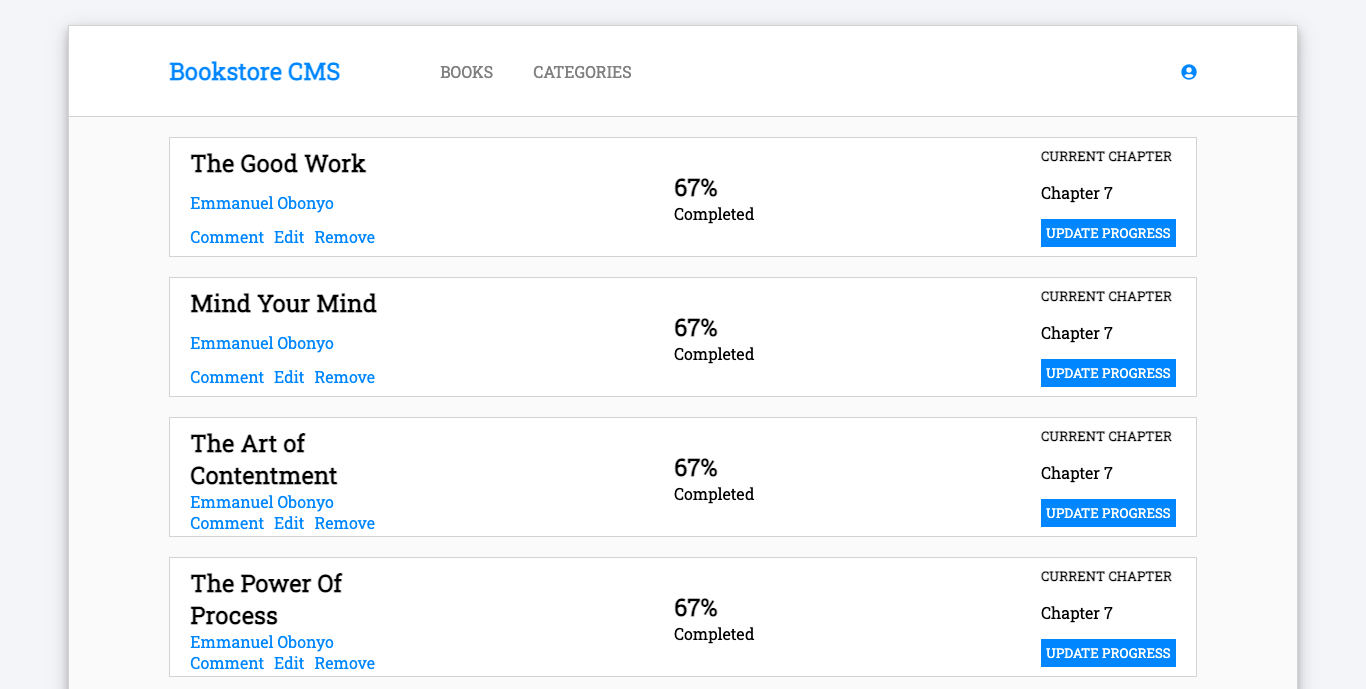
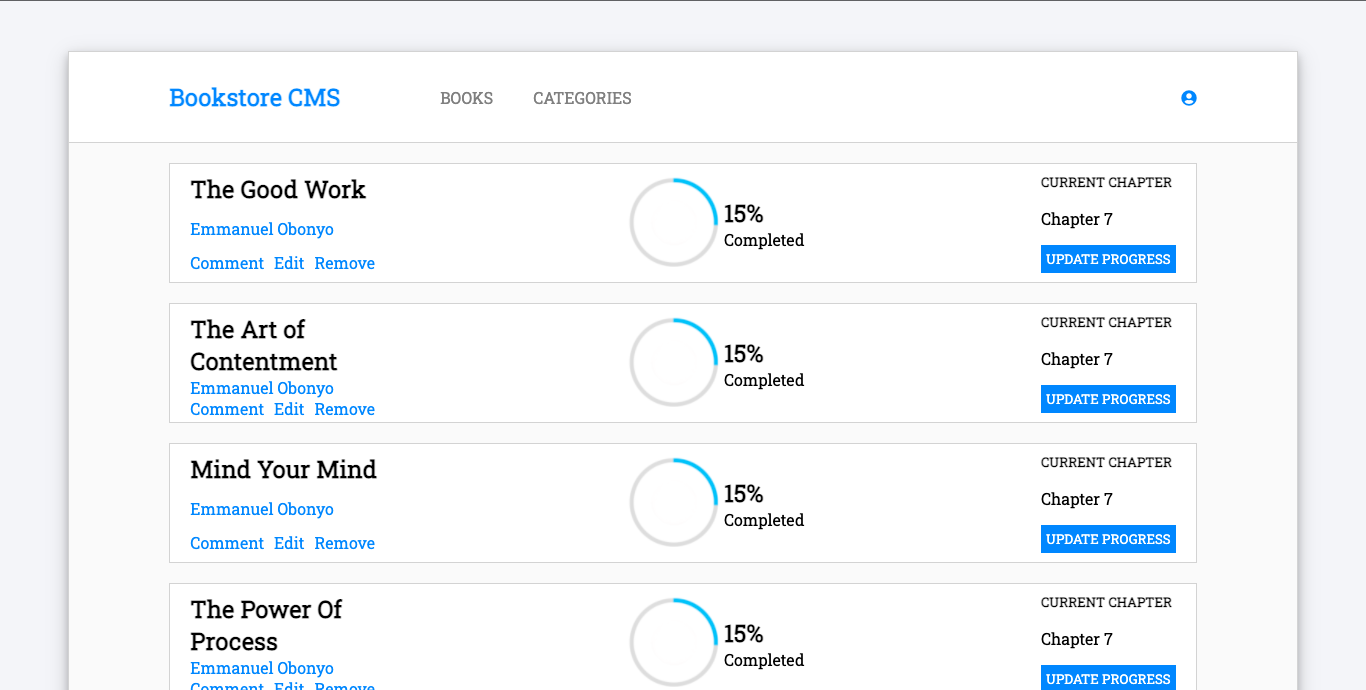
Add Circular progress bar

diff --git a/src/redux/books/getBooksSlice.js b/src/redux/books/getBooksSlice.js
@@ -23,9 +23,14 @@ export const getBooks = createAsyncThunk(
       const category = document.createElement('p');
       category.innerHTML = data[book][0].category;
       category.className = 'category';
+      const imageDiv = document.createElement('div');
+      imageDiv.className = 'image-div';
+      const image = document.createElement('img');
+      image.src = 'https://i.stack.imgur.com/2UAyy.png';
+      image.className = 'image-src';
       const div2 = document.createElement('div');
       const percentage = document.createElement('h2');
-      percentage.innerText = '67%';
+      percentage.innerText = '15%';
       const completed = document.createElement('p');
       completed.innerText = 'Completed';
       const div3 = document.createElement('div');
@@ -63,7 +68,7 @@ export const getBooks = createAsyncThunk(
       };
       bookList.appendChild(div);
       div.appendChild(div1);
-      div.appendChild(div2);
+      div.appendChild(imageDiv);
       div.appendChild(div3);
       div1.appendChild(title);
       div1.appendChild(category);
@@ -71,6 +76,8 @@ export const getBooks = createAsyncThunk(
       div4.appendChild(commentButton);
       div4.appendChild(editButton);
       div4.appendChild(button);
+      imageDiv.appendChild(image);
+      imageDiv.appendChild(div2);
       div2.appendChild(percentage);
       div2.appendChild(completed);
       div3.appendChild(chapter);

diff --git a/src/components/addNewBook/AddNewBook.js b/src/components/addNewBook/AddNewBook.js
@@ -33,9 +33,14 @@ function AddNewBook() {
     const newCategory = document.createElement('p');
     newCategory.innerHTML = document.getElementById('category').value;
     newCategory.className = 'category';
+    const imageDiv = document.createElement('div');
+    imageDiv.className = 'image-div';
+    const image = document.createElement('img');
+    image.src = 'https://i.stack.imgur.com/2UAyy.png';
+    image.className = 'image-src';
     const div2 = document.createElement('div');
     const percentage = document.createElement('h2');
-    percentage.innerText = '67%';
+    percentage.innerText = '15%';
     const completed = document.createElement('p');
     completed.innerText = 'Completed';
     const div3 = document.createElement('div');
@@ -72,7 +77,7 @@ function AddNewBook() {
     };
     bookList.appendChild(div);
     div.appendChild(div1);
-    div.appendChild(div2);
+    div.appendChild(imageDiv);
     div.appendChild(div3);
     div1.appendChild(newTitle);
     div1.appendChild(newCategory);
@@ -80,6 +85,8 @@ function AddNewBook() {
     div4.appendChild(commentButton);
     div4.appendChild(editButton);
     div4.appendChild(button);
+    imageDiv.appendChild(image);
+    imageDiv.appendChild(div2);
     div2.appendChild(percentage);
     div2.appendChild(completed);
     div3.appendChild(chapter);

diff --git a/src/components/addNewBook/AddNewBook.css b/src/components/addNewBook/AddNewBook.css
@@ -2,6 +2,16 @@
   margin: 0 6.25rem;
 }
 
+.image-src {
+  width: 100px;
+  height: 100px;
+}
+
+.image-div {
+  display: flex;
+  align-items: center;
+}
+
 .book-list-heading {
   margin-bottom: 20px;
   color: gray;
